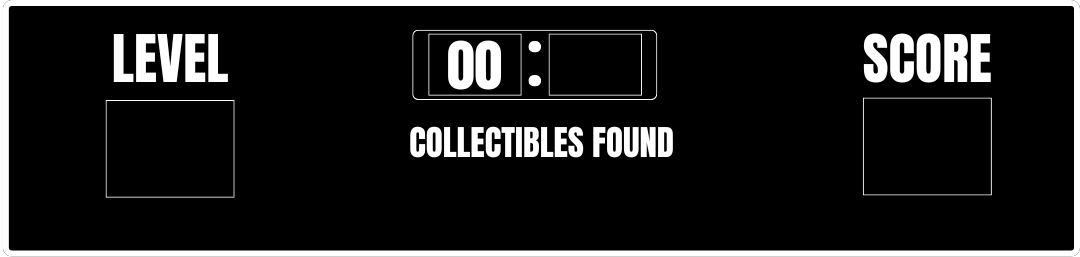
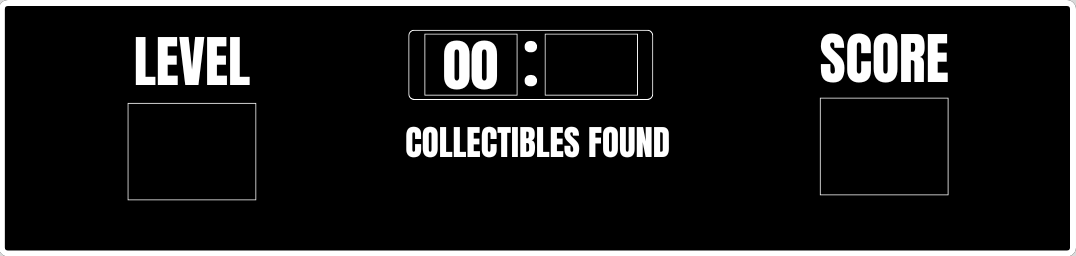
resizing scoreboard

diff --git a/src/components/levelThree.jsx b/src/components/levelThree.jsx
@@ -120,7 +120,7 @@ export default class levelThree extends Phaser.Scene {
             handleItemCollision(this, car, item);
         }, null, this);
 
-        this.scoreText = this.add.text(925, 150, `${this.score}`, {
+        this.scoreText = this.add.text(890, 150, `${this.score}`, {
             fontSize: '100px',
             color: '#ffffff',
             fontStyle: 'bold',
@@ -134,7 +134,7 @@ export default class levelThree extends Phaser.Scene {
         this.timerText = this.add.text(555, 32, `${initialFormattedTime}`, { fontSize: '70px', fill: 'white', fontStyle: 'bold' });
         this.timerText.setDepth(10);
 
-        this.levelText = this.add.text(145, 105, '3', { fontSize: '95px', fill: 'white', fontStyle: 'bold' });
+        this.levelText = this.add.text(170, 105, '3', { fontSize: '95px', fill: 'white', fontStyle: 'bold' });
         this.levelText.setDepth(100);
 
         this.timerEvent = this.time.addEvent({

diff --git a/src/components/levelTwo.jsx b/src/components/levelTwo.jsx
@@ -116,7 +116,7 @@ export default class levelTwo extends Phaser.Scene {
             handleItemCollision(this, car, item);
         }, null, this);
 
-        this.scoreText = this.add.text(925, 150, `${this.score}`, {
+        this.scoreText = this.add.text(890, 150, `${this.score}`, {
             fontSize: '100px',
             color: '#ffffff',
             fontStyle: 'bold',
@@ -130,7 +130,7 @@ export default class levelTwo extends Phaser.Scene {
         this.timerText = this.add.text(555, 32, `${initialFormattedTime}`, { fontSize: '70px', fill: 'white', fontStyle: 'bold' });
         this.timerText.setDepth(10);
 
-        this.levelText = this.add.text(145, 105, '2', { fontSize: '95px', fill: 'white', fontStyle: 'bold' });
+        this.levelText = this.add.text(170, 105, '2', { fontSize: '95px', fill: 'white', fontStyle: 'bold' });
         this.levelText.setDepth(100);
 
         this.timerEvent = this.time.addEvent({

diff --git a/src/components/levelOne.jsx b/src/components/levelOne.jsx
@@ -117,7 +117,7 @@ export default class levelOne extends Phaser.Scene {
             handleItemCollision(this, car, item);
         }, null, this);
 
-        this.scoreText = this.add.text(925, 150, '0', {
+        this.scoreText = this.add.text(890, 150, '0', {
             fontSize: '100px',
             color: '#ffffff',
             fontStyle: 'bold',
@@ -132,7 +132,7 @@ export default class levelOne extends Phaser.Scene {
         this.timerText = this.add.text(555, 32, `${initialFormattedTime}`, { fontSize: '70px', fill: 'white', fontStyle: 'bold' });
         this.timerText.setDepth(10);
 
-        this.levelText = this.add.text(145, 105, '1', { fontSize: '95px', fill: 'white', fontStyle: 'bold' });
+        this.levelText = this.add.text(170, 105, '1', { fontSize: '95px', fill: 'white', fontStyle: 'bold' });
         this.levelText.setDepth(100);
 
         this.timerEvent = this.time.addEvent({

diff --git a/src/style.css b/src/style.css
@@ -31,8 +31,15 @@ body {
   flex-direction: row; 
   gap: 7px;
   align-items: center;
-  top: 91px;
+  top: 82px;
   z-index:1;
+}
+
+@media screen and (max-height: 700px) {
+  #inventory-box {
+    top: 60px;
+    transform: translateX(-50%) scale(0.85); /* Center and scale down */
+  }
 }
 
 .inventory-slot {
